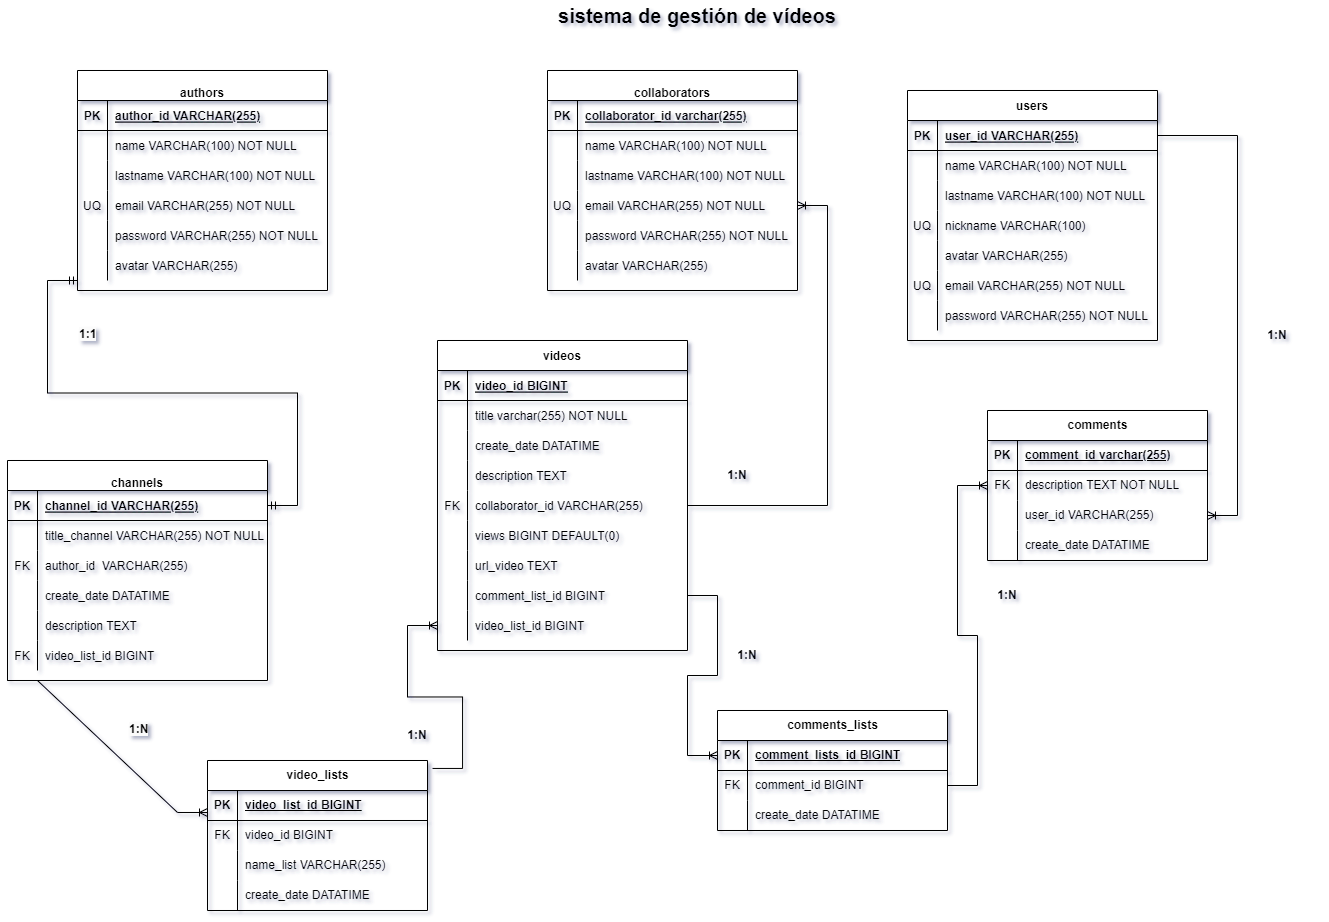
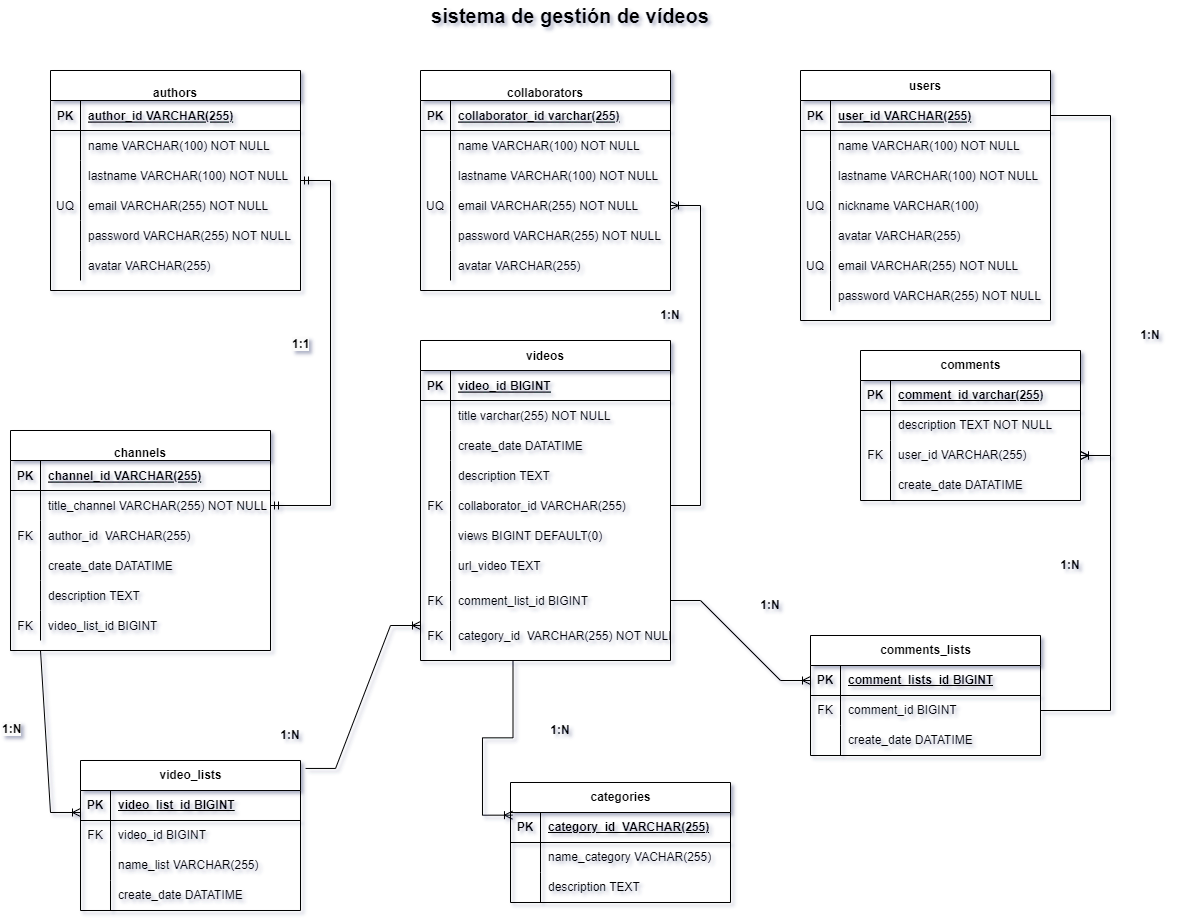
creacion de documentacion de entidades

diff --git a/1-api/app.js b/1-api/app.js
@@ -1,44 +1,32 @@
-import axios from 'axios';
-import express from 'express';
+import axios from "axios";
+import express from "express";
 //version node  v20.9.0
 // DEV dependencia nodemon  script "dev": "nodemon index.js"
-const app=express();
+const app = express();
 
-app.get('/',async (_,res)=>{
+app.get("/", async (_, res) => {
+  try {
+    const response = await axios.get(
+      "https://api.github.com/users/google/repos?sort=stars"
+    );
 
-    try {
-        const response=await axios.get('https://api.github.com/users/google/repos?sort=stars');
-        
-         
-      const popularRepository= response.data.slice(0,10);
+    const popularRepository = response.data.slice(0, 10);
 
-      const basicInformationRepository=popularRepository.map(repo=>{
-        const repository={
-            id:repo.id,
-            name:repo.name,
-            url:repo.owner.url,
-            language:repo.language
-       
-    }
-        
-        return repository
-      })
+    const basicInformationRepository = popularRepository.map((repo) => {
+      const repository = {
+        id: repo.id,
+        name: repo.name,
+        url: repo.owner.url,
+        language: repo.language,
+      };
 
-      
-      res.status(200).json(basicInformationRepository)
-        
-    } catch (error) {
-        
-       
-        res.status(500).json({message:error.message,status:error.status})
-    }
+      return repository;
+    });
 
-})
-
-
-
-
-
-
+    res.status(200).json(basicInformationRepository);
+  } catch (error) {
+    res.status(500).json({ message: error.message, status: error.status });
+  }
+});
 
 export default app;

diff --git a/3-pensamiento-logico/app.js b/3-pensamiento-logico/app.js
@@ -3,33 +3,27 @@ Escribe una función que tome un número entero como entrada y devuelva un array
 todos los números enteros impares desde 1 hasta el número de entrada. Por ejemplo, si el 
 número de entrada es 9, la función debería devolver [1, 3, 5, 7, 9]. */
 
+const arraysOdd = (number) => {
+  if (typeof number !== "number") {
+    return console.log(`The value : ${number} is not a number`);
+  }
 
-const arraysOdd=(number)=>{
- if(typeof number!== "number" ){
-    return console.log(`The value : ${number} is not a number`)
- }
-
- if(Math.sign(number)=== -1 || number < 1){
-    return console.log(`The value: ${number} is  negative or less than one  `)
- }
-  let numberOdd=[];
- for(let index = 1; index <= number; index++) {
-    
-        
-    if(index%2!==0){
-       numberOdd.push(index)
-    }    
-   
-
-} 
-console.log(numberOdd);
- 
-}
+  if (Math.sign(number) === -1 || number < 1) {
+    return console.log(`The value: ${number} is  negative or less than one  `);
+  }
+  let numberOdd = [];
+  for (let index = 1; index <= number; index++) {
+    if (index % 2 !== 0) {
+      numberOdd.push(index);
+    }
+  }
+  console.log(numberOdd);
+};
 //error
-arraysOdd(-8)
-arraysOdd('f')
-arraysOdd(0)
+arraysOdd(-8);
+arraysOdd("f");
+arraysOdd(0);
 //check
-arraysOdd(1)
-arraysOdd(9)
-arraysOdd(54)
+arraysOdd(1);
+arraysOdd(9);
+arraysOdd(54);

diff --git a/2-nomenclatura/app.js b/2-nomenclatura/app.js
@@ -1,12 +1,12 @@
 /* Ejercicio 2: Nomenclatura */
 
-function getRadian(valueX, valueY,factor) {
-    let sumResult = valueX + valueY;
-  
-    let multiplicationResult = sumResult * factor;
-   
-    let radian = Math.sin(multiplicationResult);
-    return radian;
-   }
+function getRadian(valueX, valueY, factor) {
+  let sumResult = valueX + valueY;
 
-   console.log(getRadian(3,4,5));
+  let multiplicationResult = sumResult * factor;
+
+  let radian = Math.sin(multiplicationResult);
+  return radian;
+}
+
+console.log(getRadian(3, 4, 5));

diff --git a/1-api/index.js b/1-api/index.js
@@ -1,32 +1,11 @@
 import app from "./app.js";
 
-const PORT= process.env.PORT || 3000;
+const PORT = process.env.PORT || 3000;
 
-
-app.listen(PORT,()=>{
-
-    try {
-        console.log(`Server on port http://localhost:${PORT}`)
-    } catch (error) {
-        console.error(error)
-    }
-})
-
-
-
-
-
-
-
-
-
-
-
-
-
-
-
-
-
-
-
+app.listen(PORT, () => {
+  try {
+    console.log(`Server on port http://localhost:${PORT}`);
+  } catch (error) {
+    console.error(error);
+  }
+});

diff --git a/4-Modelado-bases-de-datos/Gestion-sistema-video.md b/4-Modelado-bases-de-datos/Gestion-sistema-video.md
@@ -2,24 +2,73 @@
 
 ##  Listado de Entidades 
 
-### aUthors **(ED)**
+### authors **(ED)**
 - author_id **(PK)**
 - name
 - lastaname 
-- email **(PK)**
+- email **(UQ)**
 - password
 - avatar
 ### users **(ED)**
-
-
+- author_id **(PK)**
+- name
+- lastaname 
+- nikname **(UQ)**
+- email **(UQ)**
+- password
+- avatar
 ### collaborators **(ED)**
-
-### acthors **(ED)**
-
-### acthors **(ED)**
-
-### acthors **(ED)**
-
-### Modelo Entidad-Relación
+- author_id **(PK)**
+- name
+- lastaname 
+- email **(UQ)**
+- password
+- avatar
+### channels **(ED)**
+- channel_id **(PK)**
+- title_channel
+- author_id **(FK)**
+- description
+- video_list_id **(FK)**
+### videos **(ED)**
+- video_id **(PK)**
+- title
+- create_date
+- description
+- collaborator_id **(FK)**
+- views
+- url_video
+- comment_list_id **(FK)**
+- category_id **(FK)**
+### comments **(ED)**
+- comment_id **(PK)**
+- user_id **(FK)**
+- create_date
+### categories **(EC)**
+- category_id **(PK)**
+- name_category
+- description
+### video_lists**(ED)**
+- video_list_id **(PK)**
+- video_id **(FK)**
+- name_list 
+- create_date
+### comments_lists**(ED)**
+- comment_list_id **(PK)**
+- comment_id **(FK)**
+- create_date
+## Relaciones
+1. 
+## Modelo Entidad-Relación
 
 ![Modelo Entidad -Relacion](./E-R-DESIGN-SYSTEM-VIDEO.png)
+
+## Glosario
+
+- **ED**:Entidad de datos.
+- **EC**: Entidad de catálago.
+- **FK**:Foreign key.
+- **PK**:Primary key.
+- **1:1**:uno a uno.
+- **1:N**:uno a muchos.
+- **N:M**:muchos a muchos.
